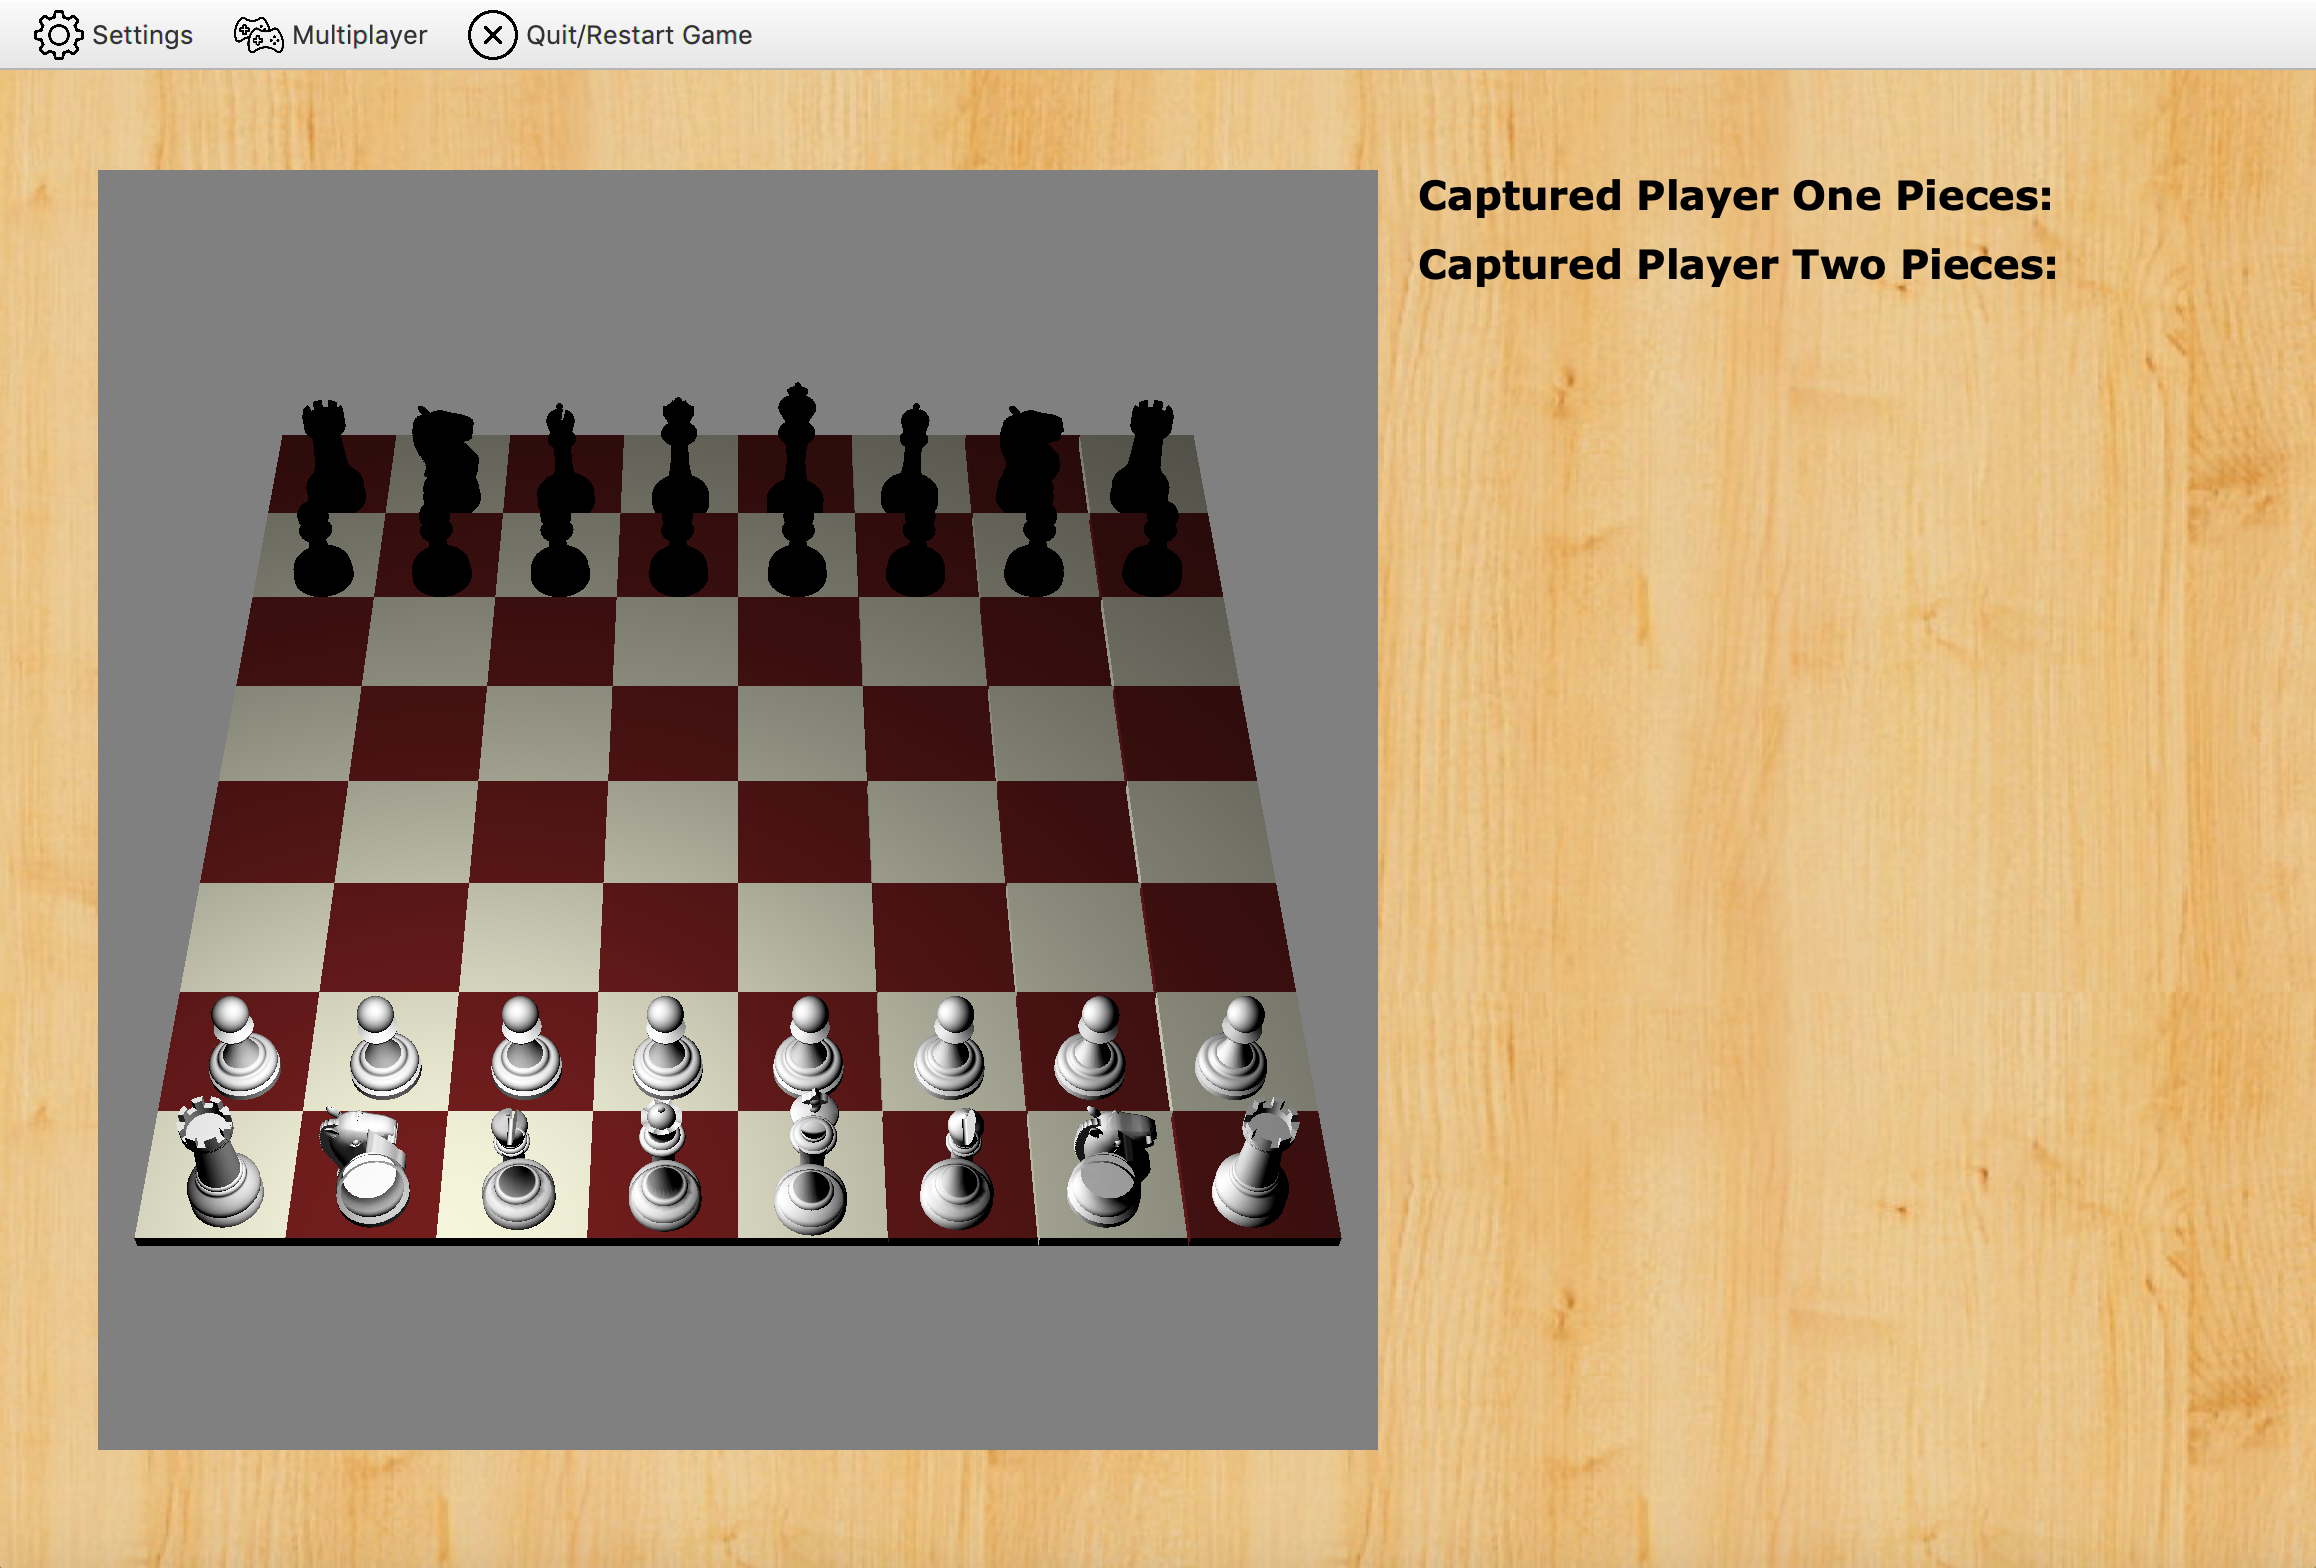
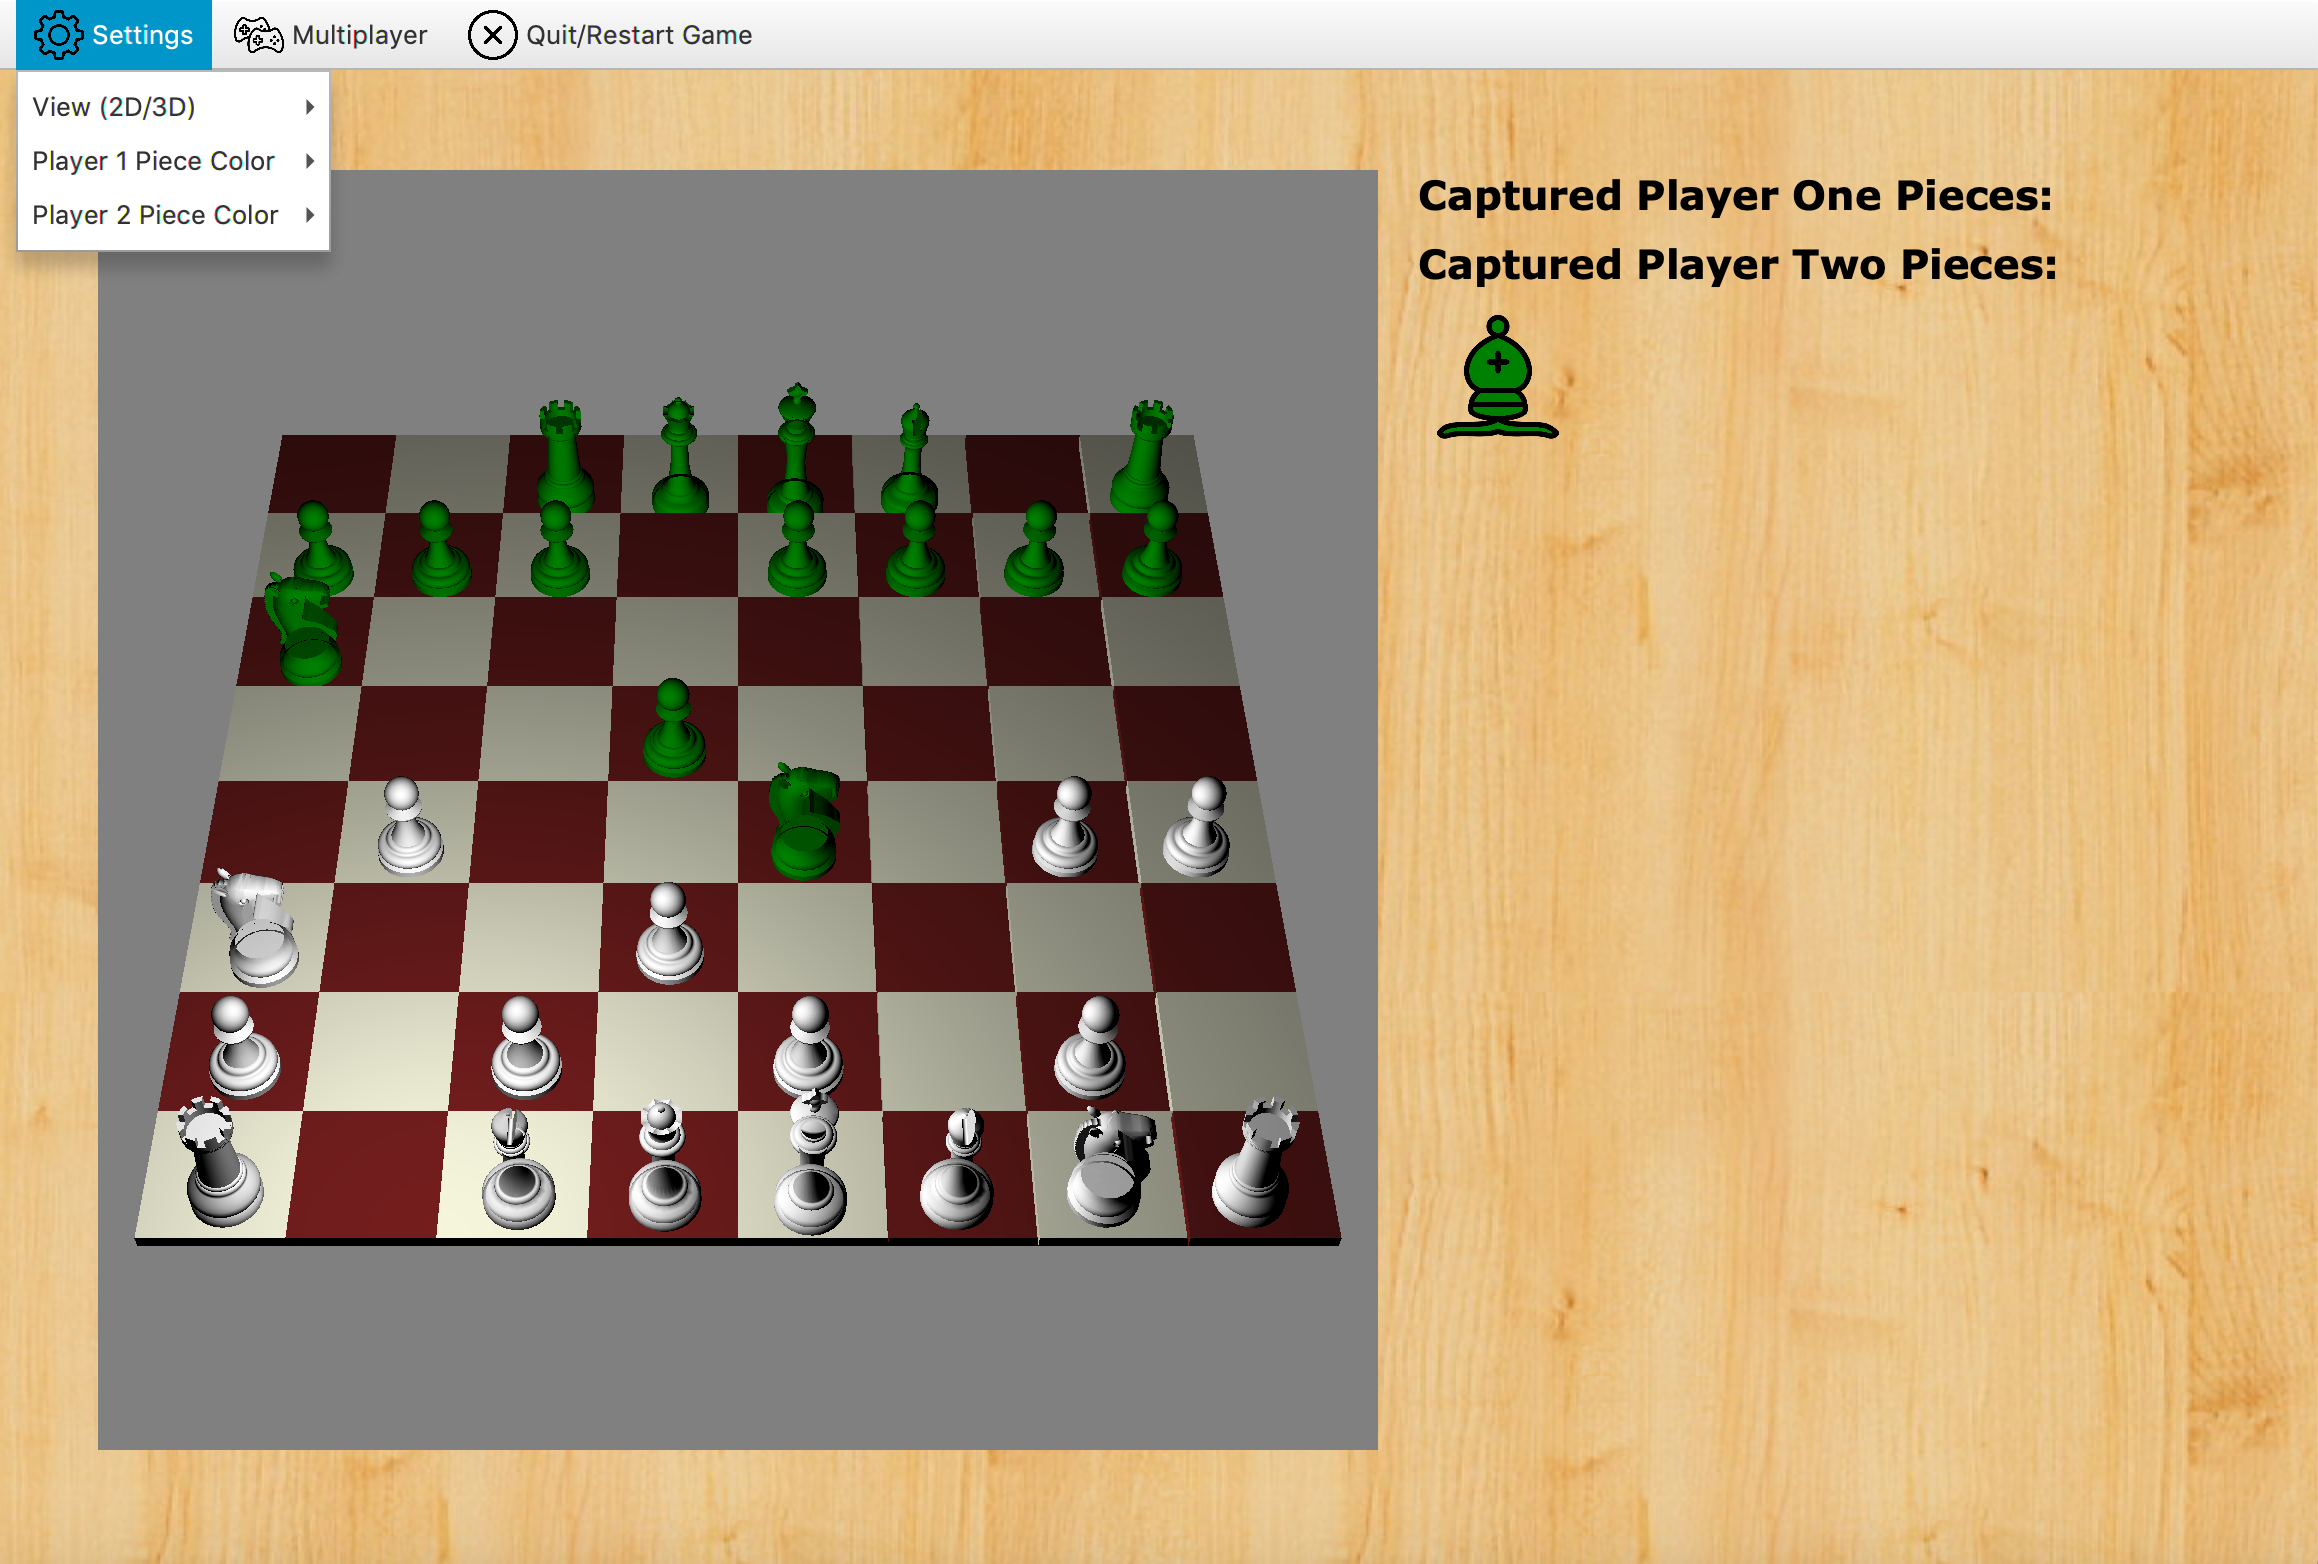
finished readme

diff --git a/readme.md b/readme.md
@@ -3,25 +3,22 @@
 
 
 ## Chess Rules:
-In the game of chess chess, two players attempt to strategically capture each other's king by first putting the King in check. This can be done by a player who strategically places the threat of capture on their opponent using one or more of their game pieces. 
+In the game of chess, two players attempt to strategically capture each other's king. This can be done by a player who places the threat of capture on their opponent using one or more of their game pieces. If a king is in check, then the player must make a move that eliminates the threat of capture and cannot leave the king in check. Checkmate happens when a king is placed in check and there is no legal move to escape. Checkmate ends the game and the side whose delivered the checkmate wins the game.
 
-Each piece has specific allowable moves. They are as follows:
+Each game piece has specific set of allowable moves. They are as follows:
 * The King can move exactly one square horizontally, vertically, or diagonally.
 * The Queen can move any number of vacant squares diagonally, horizontally, or vertically.
 * The Rook can move any number of vacant squares vertically or horizontally.
 * The Bishop can move any number of vacant squares in any diagonal direction.
-* The Knight can move one square along any rank or file and then at an angle (in the shape of an "L").
-* Pawns can move forward one square, if that square is unoccupied. If it has not yet moved, the pawn can be moved two squares forward. Pawns may capture an enemy piece on either of the two spaces diagonally adjacent to the space in front of them.
-
-![Chess Game 2D](/design/screenshot2D.png | width=100)
-![Chess Game 3D](/design/screenshot3D.png | width=100)
+* The Knight can move two squares along any row or column and then one in any non-diagonal direction. (The resulting move is in the shape of an "L").
+* Pawns can move forward one square if that square is unoccupied. If the pawn has not yet moved, the pawn can be moved two squares forward. Pawns may capture an enemy piece on either of the two spaces diagonally adjacent to their current position.
 
 ## Chess Implementation
-This project is a GUI representation of the game described above. In its most basic form, this game can be payed by two players at the same computer. The bottom team always starts and the player can begin by simply choosing a piece to move. Gameplay continues with alternating turns between the bottom and the top team. 
+This project is a GUI implementation of the chess game described above. In its most basic form, this game can be payed by two players at the same computer. The first player (white by default) starts by simply left clicking a piece to move. The valid moves become highlighted green to indicate availability. Gameplay continues with alternating turns between the bottom and the top team. 
 
 For users wishing to play the game with advanced graphics, the "Settings" menu will allow 3D graphics to be enabled. In addition, a player may customize the board by selecting one of the 9 different colors for his/her game pieces.
 
-This implementation of Chess also supports network play. If a player desires to engage in competition with someone on another computer, the player can use the "Multiplayer" menu to chose to host or join a game. In network play, each user has the opportunity to customize their view and independent of their opponent's view preferences. If a user wishes to quit or restart the game, these options are presented in the "Quit/Restart Game" menu.
+This implementation of chess also supports network play. If a player desires to engage in competition with an opponent on another computer, the player can use the "Multiplayer" menu to chose to host or join a game. In network play, each user has the opportunity to customize their view independent of their opponent's view preferences. If a user wishes to quit or restart the game, these options are presented in the "Quit/Restart Game" menu.
 
 ## Installation and Run
 To run the source code, please use your package manager of choice. If you would like a prebuilt version of the game, download and run the .jar file. 
@@ -32,6 +29,7 @@ This project was completed by Ryan Bailis, James Campbell, Ethan Dunne, and Jake
 ## Libraries and Resources
 [JavaFX](https://openjfx.io) 
 [Interactive Mesh](http://www.interactivemesh.org/models/jfx3dimporter.html)
+[Official Chess Rules](http://www.uschess.org/content/view/7324/)
 
 All other resources are documented in file headers as appropriate.
 
@@ -43,6 +41,14 @@ This project was developed as part of a class assignment. CSCI205, Software Engi
 
 ## License
 [MIT](https://choosealicense.com/licenses/mit/)
+
+## Gameplay Screenshots
+![Chess Game 2D](/design/screenshot2D.png)
+Screenshot of 2D gameplay.
+
+![Chess Game 3D](/design/screenshot3D.png)
+Screenshot of 3D gameplay. Player 2 changed their piece color to green via the "Settings Menu".
+
 
 
 
